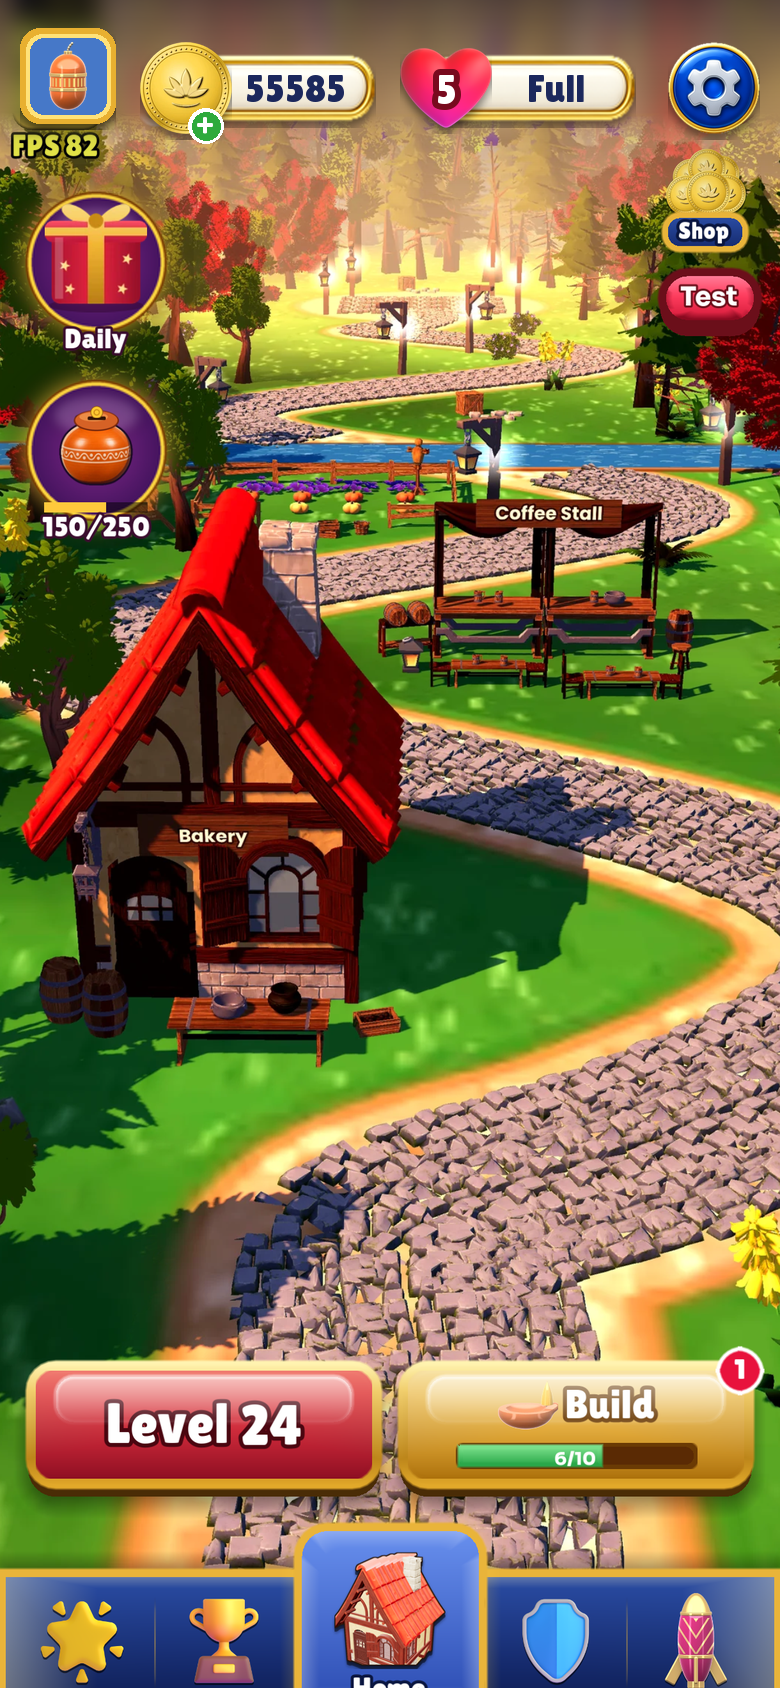
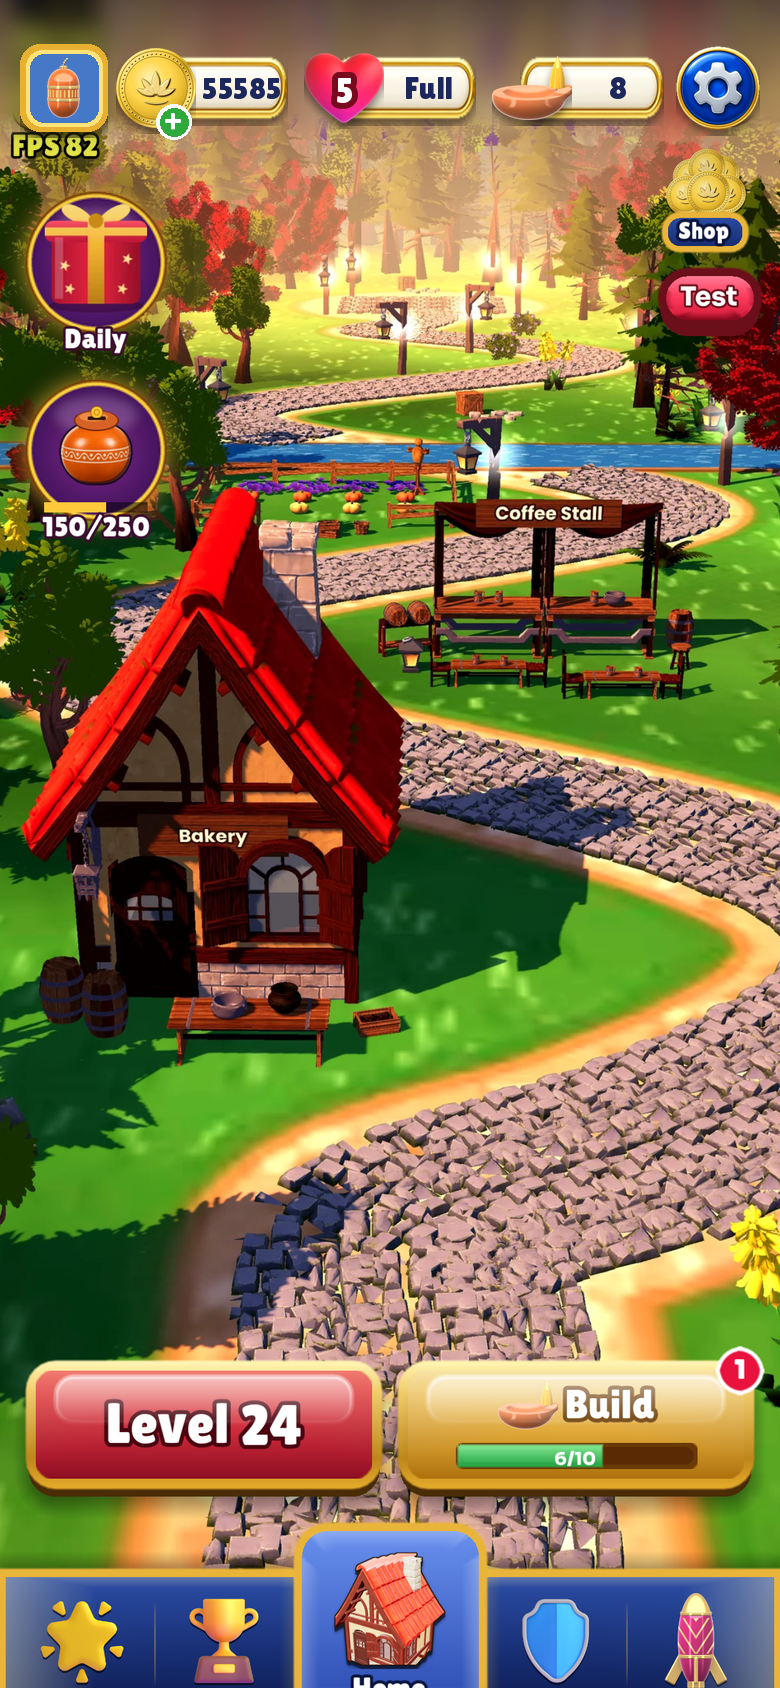
Top bar mockup: diya pill back (3 pills + gear)
Claude-Session: https://claude.ai/code/session_01JoFRX37DvCFxf26vhiSu8C

Changed region(s): [[0.0308, 0.0, 0.9846, 0.0924]]

diff --git a/godot/tools/pic/topbar_mock.py b/godot/tools/pic/topbar_mock.py
@@ -19,21 +19,22 @@ def put(img,x,y,sh=True):
     im.alpha_composite(img,(int(x),int(y)))
 Y=40  # bar centre line (pt)
 # profile in a gold frame
-d=ImageDraw.Draw(im); px,py,ps=10,Y-4-22,48
+d=ImageDraw.Draw(im); px,py,ps=10,Y+4-22,44
 fr=Image.new('RGBA',(ps*S,ps*S),(0,0,0,0)); fd=ImageDraw.Draw(fr)
 fd.rounded_rectangle([0,0,ps*S-1,ps*S-1],10*S,fill=(232,176,48)); fd.rounded_rectangle([3*S,3*S,ps*S-3*S,ps*S-3*S],8*S,fill=(255,226,120))
 fd.rounded_rectangle([5*S,5*S,ps*S-5*S,ps*S-5*S],7*S,fill=(70,120,200))
-put(fr,px*S,py*S); av=icon('art/crk/b10.webp',34*S); put(av,(px+ps/2)*S-av.width/2,(py+ps/2)*S-av.height/2,False)
+put(fr,px*S,py*S); av=icon('art/crk/b10.webp',30*S); put(av,(px+ps/2)*S-av.width/2,(py+ps/2)*S-av.height/2,False)
 def pillbox(x,w,ic,txt,badge=None):
-    p=pill.resize((w*S,int(34*S)),Image.LANCZOS); put(p,x*S,(Y+4-17)*S)
-    d=ImageDraw.Draw(im); d.text(((x+w/2+12)*S,(Y+4)*S),txt,font=F(19),fill=(28,40,92),anchor='mm')
-    i=icon(ic,46*S); put(i,(x-14)*S,(Y+4)*S-i.height/2)
-    if badge: d.text(((x+9)*S,(Y+5)*S),badge,font=F(20),fill='white',anchor='mm',stroke_width=3*S,stroke_fill=(120,10,30))
-pillbox(84,104,'art/ui-coin.webp','55585')
-pillbox(214,104,'art/web/fe-heart.png','Full','5')
+    p=pill.resize((w*S,int(32*S)),Image.LANCZOS); put(p,x*S,(Y+4-16)*S)
+    d=ImageDraw.Draw(im); d.text(((x+(20+w)/2+3)*S,(Y+4)*S),txt,font=F(16 if len(txt)<5 else 15),fill=(28,40,92),anchor='mm')
+    i=icon(ic,40*S); put(i,(x-14)*S,(Y+4)*S-i.height/2)
+    if badge: d.text(((x+6)*S,(Y+5)*S),badge,font=F(18),fill='white',anchor='mm',stroke_width=3*S,stroke_fill=(120,10,30))
+pillbox(72,72,'art/ui-coin.webp','55585')
+pillbox(166,72,'art/web/fe-heart.png','Full','5')
+pillbox(260,72,'art/ui-diya.webp','8')
 # plus on coin
 pl=Image.new('RGBA',(18*S,18*S),(0,0,0,0)); pd=ImageDraw.Draw(pl); pd.ellipse([0,0,18*S-1,18*S-1],fill=(255,255,255)); pd.ellipse([2*S,2*S,16*S,16*S],fill=(46,170,60))
-pd.text((9*S,8.5*S),'+',font=F(16),fill='white',anchor='mm'); put(pl,(84+10)*S,(Y+14)*S,False)
-gr=gear.resize((46*S,46*S),Image.LANCZOS); put(gr,(390-10-46)*S,(Y+4-23)*S)
+pd.text((9*S,8.5*S),'+',font=F(16),fill='white',anchor='mm'); put(pl,(72+6)*S,(Y+12)*S,False)
+gr=gear.resize((42*S,42*S),Image.LANCZOS); put(gr,(390-10-42)*S,(Y+4-21)*S)
 im.convert('RGB').save('../previews/top-bar.png')
 im.crop((0,0,W,260*S)).convert('RGB').save('/tmp/tb.png')
